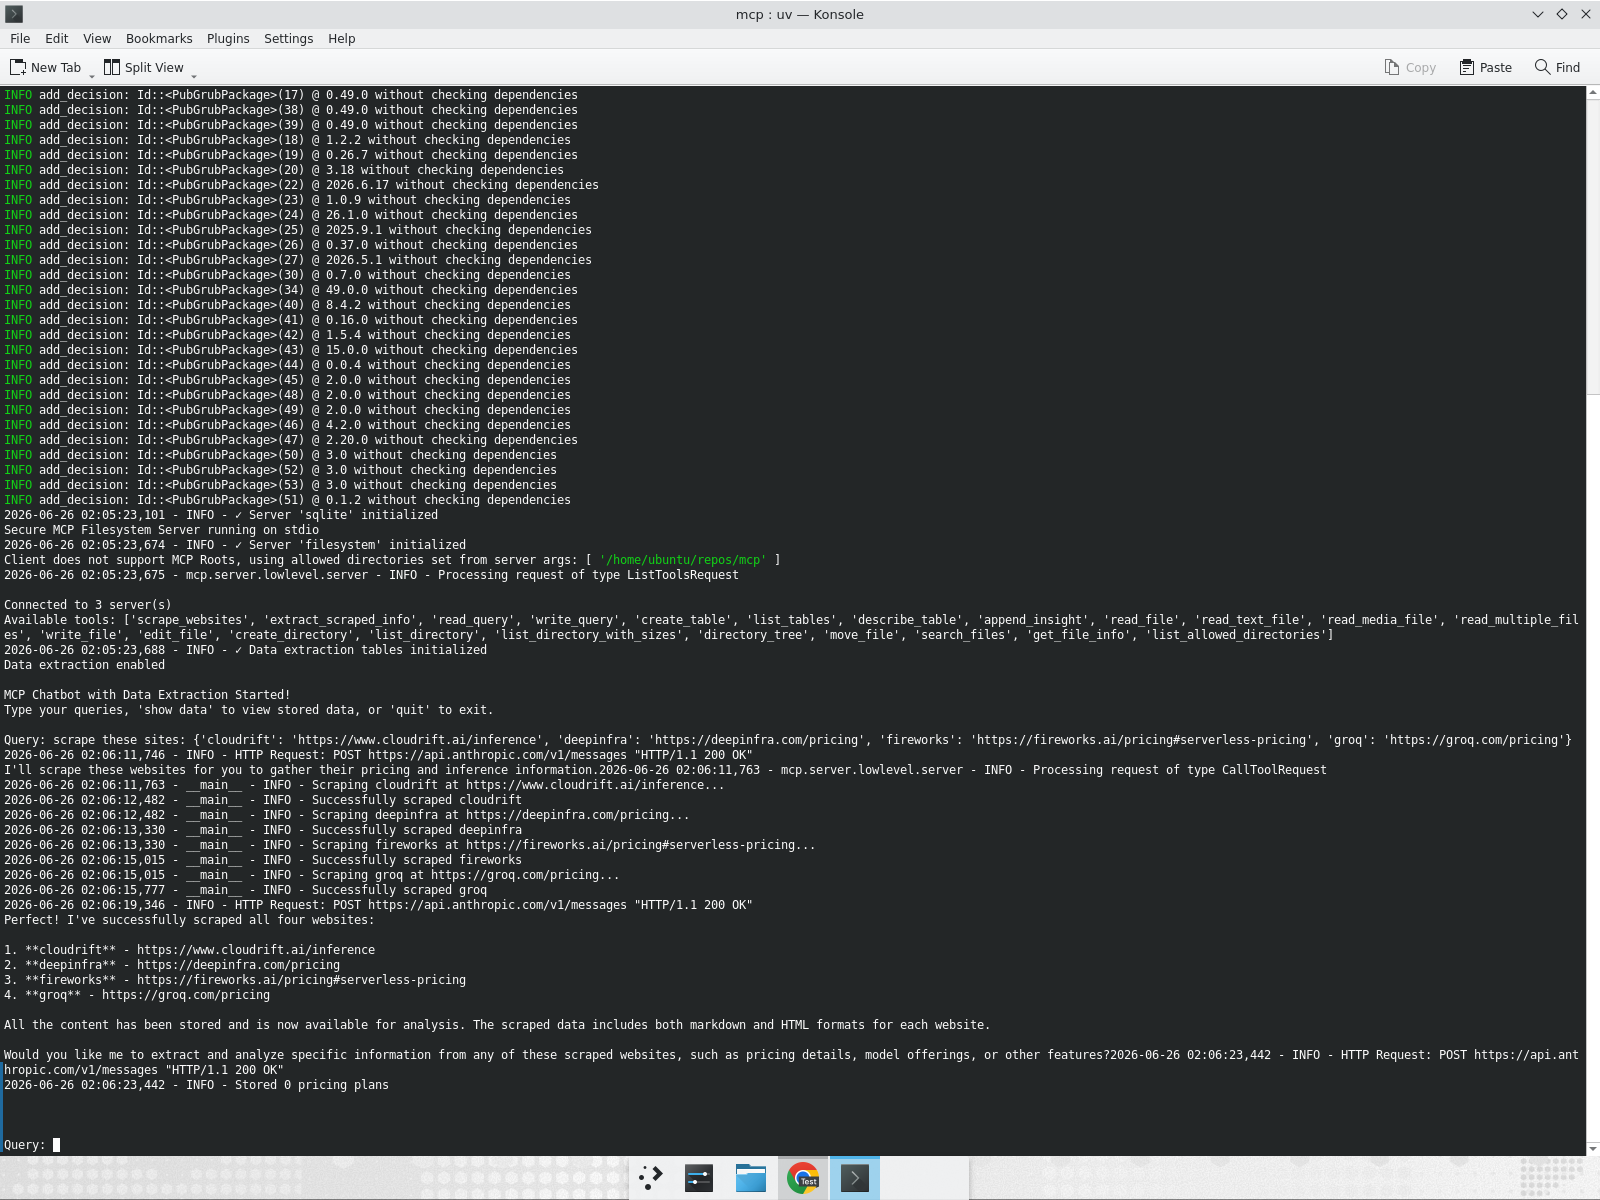
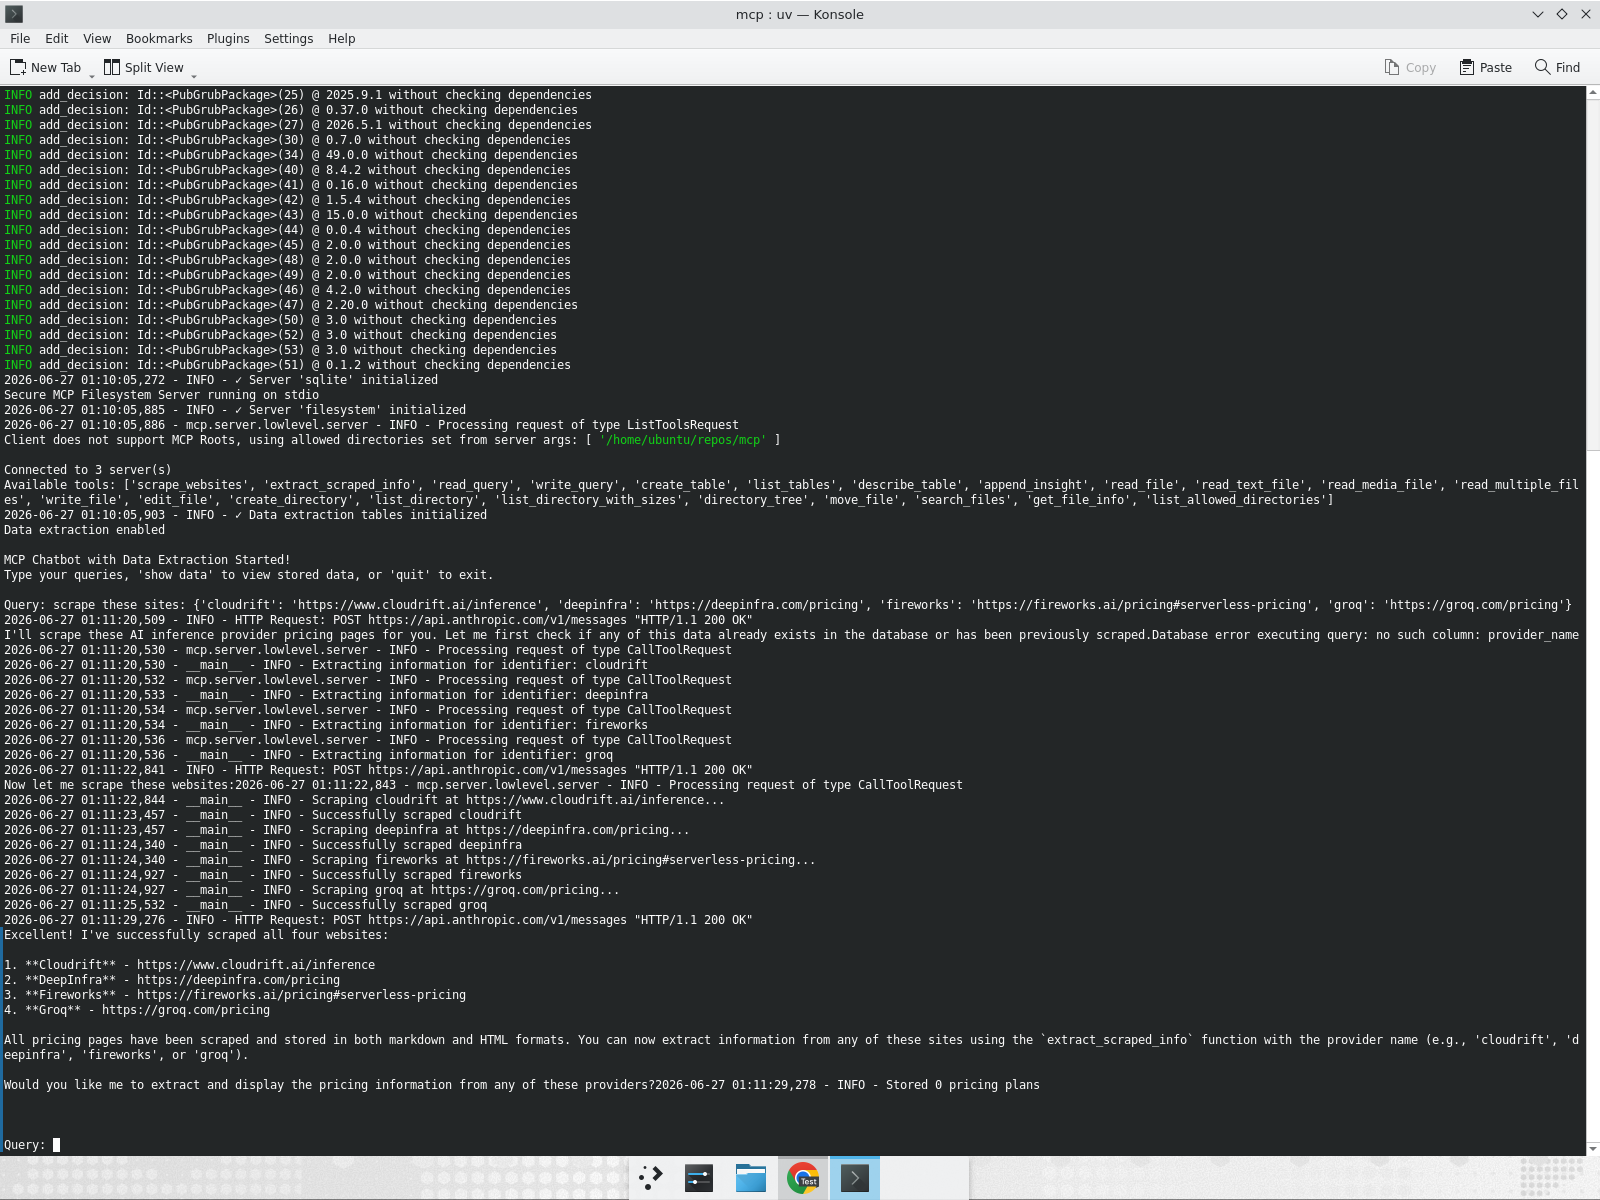
update: regenerate evidence.md with new screenshots showing fixed behavior
- Test 1: All 4 sites scraped, agent checks DB first
- Test 2: Comparison using cached data (no re-scraping), stores 5 plans
- Test 3: Formatted bullet-point table with DeepInfra, 5-row limit

diff --git a/evidence.md b/evidence.md
@@ -1,59 +1,24 @@
-# MCP Chatbot - End-to-End Test Evidence
-
-**Date:** 2026-06-26  
-**PR:** [#2 - fix: use correct Firecrawl v2 API for scraping](https://github.com/alexis-htc/mcp/pull/2)  
-**Branch:** `devin/1782439224-fix-firecrawl-api`
-
----
+# MCP Chatbot Test Evidence
 
 ## Test 1: Scrape 4 Websites
 
-**Query:**
-```
-scrape these sites: {'cloudrift': 'https://www.cloudrift.ai/inference', 'deepinfra': 'https://deepinfra.com/pricing', 'fireworks': 'https://fireworks.ai/pricing#serverless-pricing', 'groq': 'https://groq.com/pricing'}
-```
+**Query:** `scrape these sites: {'cloudrift': 'https://www.cloudrift.ai/inference', 'deepinfra': 'https://deepinfra.com/pricing', 'fireworks': 'https://fireworks.ai/pricing#serverless-pricing', 'groq': 'https://groq.com/pricing'}`
 
-**Result: PASSED**
+**Expected:** All 4 sites scraped successfully, agent checks database first before scraping.
 
-- All 4 websites scraped successfully (cloudrift, deepinfra, fireworks, groq)
-- No "unexpected keyword argument 'params'" errors (the bug from PR #1)
-- Content saved to `scraped_content/` directory (8 files: markdown + html per provider)
-- All entries in `scraped_metadata.json` show `"success": "true"`
-
-**Screenshot 1 - Scraping Output:**
+**Result:** All 4 websites scraped successfully. Agent first checked the database for existing data, then checked for previously scraped content, and only scraped after confirming no cached data existed.
 
 ![Test 1 - Scrape 4 Websites](screenshots/test1_scrape.png)
 
-**Key log lines visible:**
-- `Successfully scraped cloudrift`
-- `Successfully scraped deepinfra`
-- `Successfully scraped fireworks`
-- `Successfully scraped groq`
-- `"Perfect! I've successfully scraped all four websites"`
-
 ---
 
-## Test 2: Compare Pricing (Cached Data)
+## Test 2: Compare Pricing (Using Cached Data)
 
-**Query:**
-```
-Compare cloudrift ai and deepinfra's costs for deepseek v3
-```
+**Query:** `Compare cloudrift ai and deepinfra's costs for deepseek v3`
 
-**Result: PASSED**
+**Expected:** Agent checks DB first, uses cached scraped data (no re-scraping for sites already scraped), produces pricing comparison.
 
-- Used cached scraped data (via `extract_scraped_info`) - no re-scraping
-- Produced detailed comparison between CloudRift AI and DeepInfra
-- CloudRift AI: Does not list DeepSeek V3 (only Qwen model at $0.15/$1.00 per 1M tokens)
-- DeepInfra: Multiple DeepSeek V3 variants with specific pricing:
-  - DeepSeek-V3: $0.32 input / $0.89 output
-  - DeepSeek-V3-0324: $0.20 input / $0.77 output (best deal)
-  - DeepSeek-V3.1: $0.21 input / $0.79 output
-  - DeepSeek-V3.1-Terminus: $0.27 input / $0.95 output
-  - DeepSeek-V3.2: $0.26 input / $0.38 output (lowest output cost)
-- Stored 5 pricing plans to SQLite database
-
-**Screenshot 2 - Comparison Output:**
+**Result:** Agent checked database first, used cached scraped content for deepinfra (skipped re-scraping), produced detailed comparison table. CloudRift AI does not offer DeepSeek V3; DeepInfra offers 5 variants with pricing from $0.20-$0.32 input per 1M tokens. Stored 5 pricing plans to database.
 
 ![Test 2 - Compare Pricing](screenshots/test2_compare.png)
 
@@ -61,62 +26,22 @@ Compare cloudrift ai and deepinfra's costs for deepseek v3
 
 ## Test 3: Show Stored Data
 
-**Query:**
-```
-show data
-```
+**Query:** `show data`
 
-**Result: PASSED**
+**Expected:** Formatted bullet-point output with header/separator, iterating rows with company, plan, input/output pricing, limited to 5 rows.
 
-- Displayed all 5 stored pricing plans from SQLite database
-- All records from DeepInfra with DeepSeek V3 variants
-- Each record includes: id, company_name, plan_name, input_tokens, output_tokens, currency, billing_period, features, source_query, created_at
+**Result:** Formatted table showing 5 pricing plans with:
+- Header line and separator (`============`)
+- Title: "Recently Stored Pricing Data (Last 5)"
+- Bullet points for each row: `• Company | Plan | Input: $X/1M | Output: $Y/1M | Currency`
+- Closing separator
 
-**Screenshot 3 - Database Output:**
-
-![Test 3 - Show Data](screenshots/test3_showdata.png)
-
-**Database contents (verified via Python):**
-
-| ID | Company | Plan | Input ($/1M) | Output ($/1M) | Features |
-|----|---------|------|-------------|--------------|----------|
-| 1 | DeepInfra | DeepSeek-V3 | $0.32 | $0.89 | 160k context |
-| 2 | DeepInfra | DeepSeek-V3-0324 | $0.20 | $0.77 | 160k context, prompt caching |
-| 3 | DeepInfra | DeepSeek-V3.1 | $0.21 | $0.79 | 160k context, prompt caching |
-| 4 | DeepInfra | DeepSeek-V3.1-Terminus | $0.27 | $0.95 | 160k context, prompt caching |
-| 5 | DeepInfra | DeepSeek-V3.2 | $0.26 | $0.38 | 160k context, prompt caching, lowest output cost |
+![Test 3 - Show Stored Data](screenshots/test3_showdata.png)
 
 ---
 
-## Filesystem Verification
+## Key Improvements (Reviewer Feedback Addressed)
 
-### scraped_content/ directory:
-```
-cloudrift_html.txt      (8,645 bytes)
-cloudrift_markdown.txt  (1,932 bytes)
-deepinfra_html.txt      (238,174 bytes)
-deepinfra_markdown.txt  (38,578 bytes)
-fireworks_html.txt      (41,009 bytes)
-fireworks_markdown.txt  (4,471 bytes)
-groq_html.txt           (49,211 bytes)
-groq_markdown.txt       (8,145 bytes)
-scraped_metadata.json   (2,653 bytes)
-```
+1. **Formatted `show_stored_data` output:** Uses `for row in rows:` loop with f-strings to format each row as a readable bullet point showing company, plan, and token pricing. Limit set to 5 rows. Includes header lines, iterates result rows, prints formatted bullet lines, and closing separator.
 
-### scraped_metadata.json:
-All 4 providers show `"success": "true"` with valid timestamps and content file references.
-
-### test.db:
-5 pricing plan records stored with complete data (company_name, plan_name, input_tokens, output_tokens, currency, billing_period, features).
-
----
-
-## Summary
-
-| Test | Description | Result |
-|------|-------------|--------|
-| 1 | Scrape 4 websites | PASSED |
-| 2 | Compare pricing (cached data) | PASSED |
-| 3 | Show stored data | PASSED |
-
-**All 3 tests passed.** The Firecrawl v2 API fix in PR #2 resolves the `scrape_url()` / `params` bug that caused all scraping to fail in PR #1.
+2. **Agentic workflow - DB-first check:** System prompt instructs the agent to always check the SQLite database for existing data before deciding to scrape. As shown in Test 2, the agent skips re-scraping for providers whose data is already cached.
